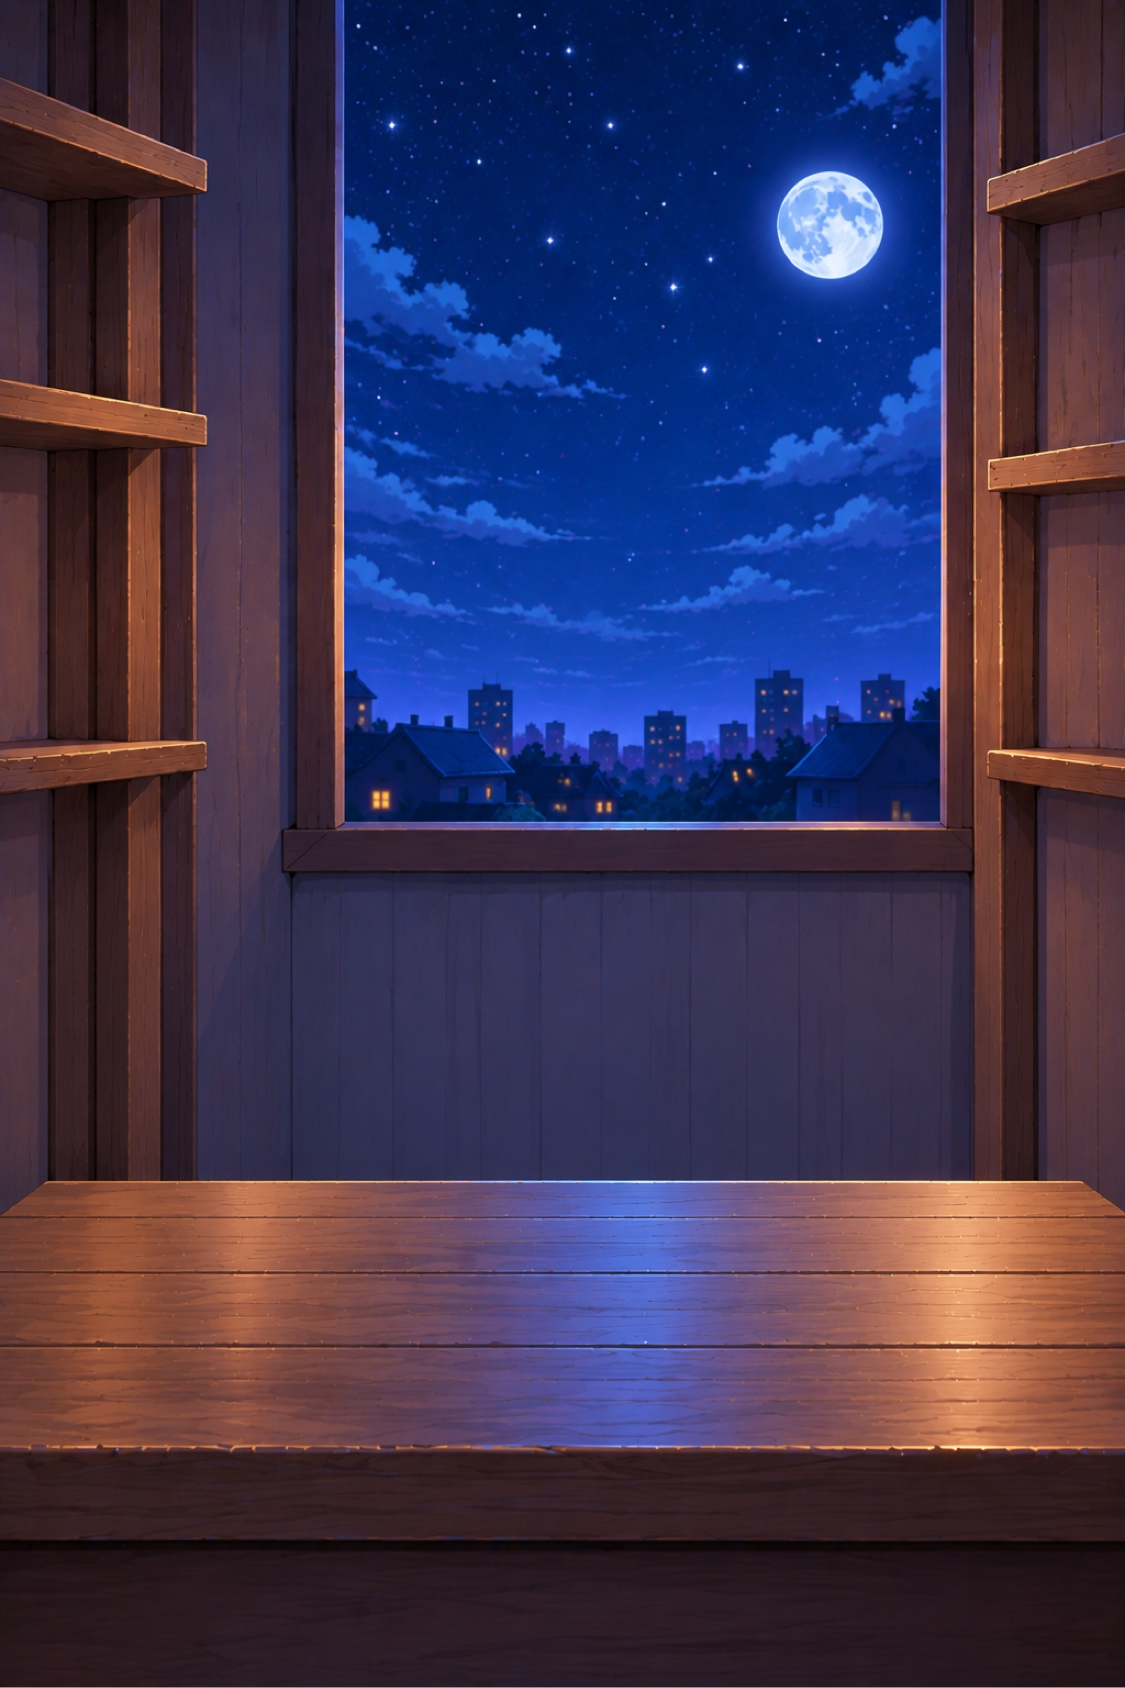
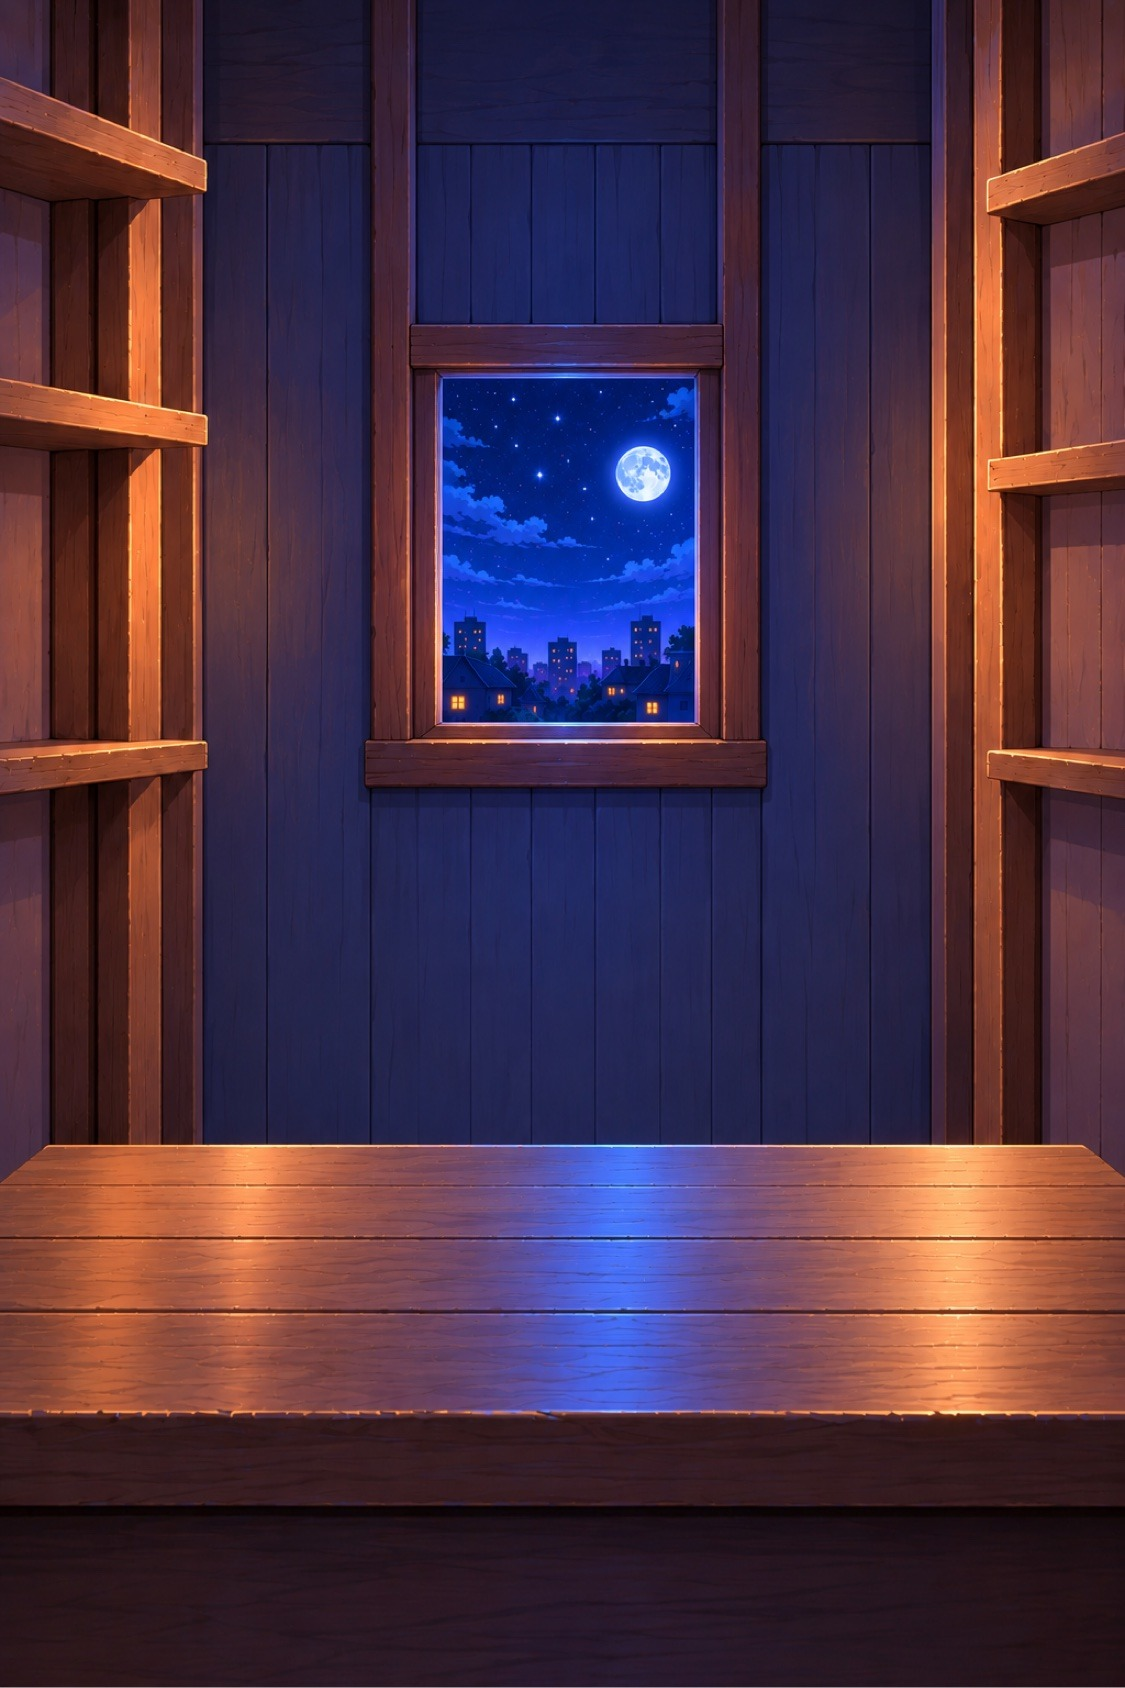
Small tank: night-room background + tall rainbow aquarium on table (two layers, swappable bg via build_small_tank.py)

diff --git a/public/js/data.js b/public/js/data.js
@@ -13,7 +13,7 @@ const DATA = {
   // measured glass rectangles, fractions of artwork (per API_CONTRACT.md §Glass)
   // small: two-layer composite (tank_small_bg.jpg + tank_small_fg.png via build_small_tank.py)
   GLASS: {
-    small:  { left: .137, right: .863, top: .415, bottom: .762 },
+    small:  { left: .260, right: .739, top: .568, bottom: .754 },
     medium: { left: .134, right: .865, top: .526, bottom: .758 },
     large:  { left: .046, right: .954, top: .570, bottom: .770 },
   },

diff --git a/build_small_tank.py b/build_small_tank.py
@@ -22,8 +22,8 @@ FG_FILE = os.path.join(TANKS, "tank_small_fg.png")
 OUT_FILE = os.path.join(TANKS, "tank_small.jpg")
 
 # Tank placement (tuned with user)
-TANK_W = 1125
-TANK_BOTTOM_Y = 1365  # middle of table
+TANK_W = 700
+TANK_BOTTOM_Y = 1350  # sitting on table  # middle of table
 
 def main():
     bg = Image.open(BG_FILE).convert("RGB")
